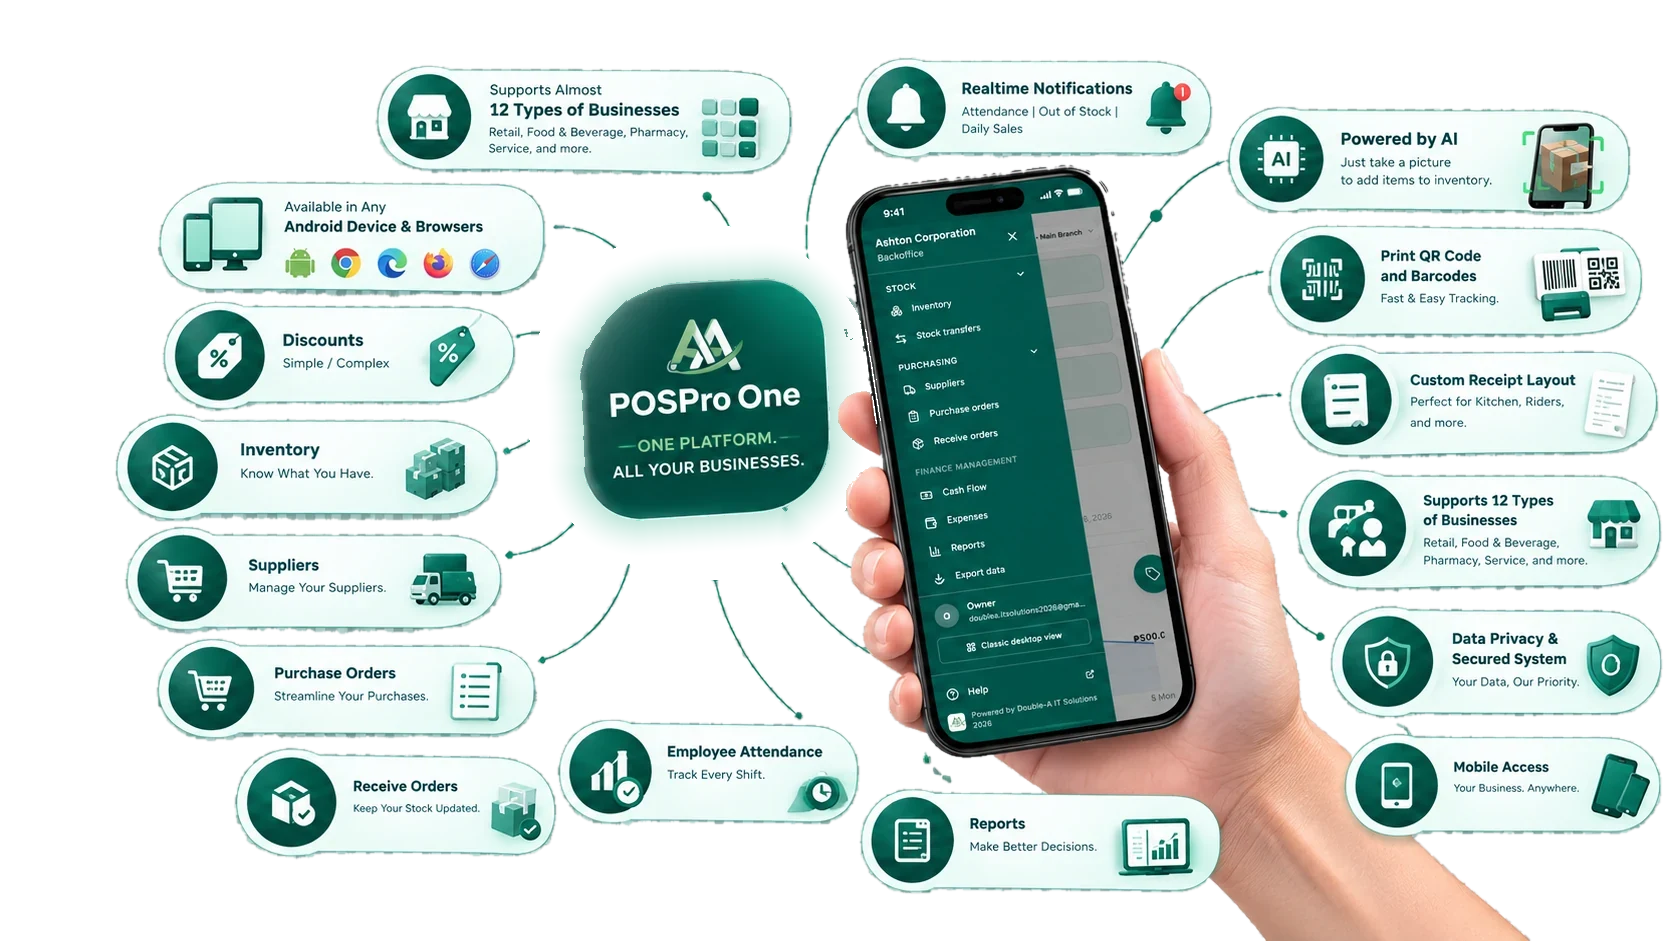
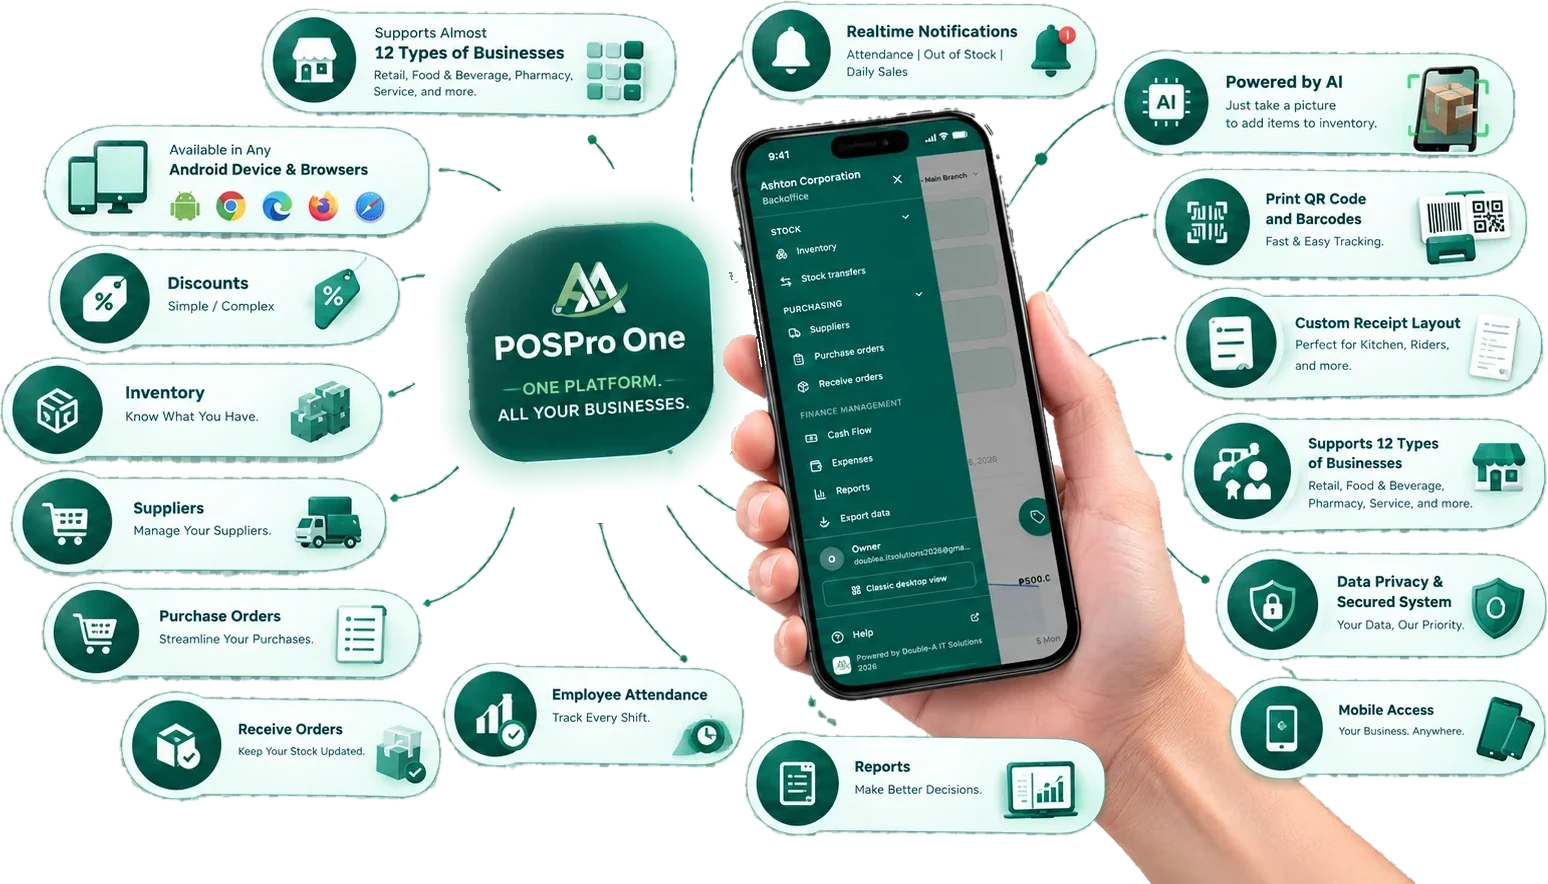
add features

diff --git a/apps/web/app/products/[slug]/page.tsx b/apps/web/app/products/[slug]/page.tsx
@@ -92,7 +92,13 @@ export default function ProjectPage({ params }: { params: { slug: string } }) {
                 Back to work
               </Link>
 
-              <div className="mt-8 grid gap-12 lg:grid-cols-[1fr_1.05fr] lg:items-center">
+              <div
+                className={
+                  project.heroImage
+                    ? "mt-8 grid gap-8 lg:grid-cols-[minmax(0,0.8fr)_minmax(0,1.2fr)] lg:items-center lg:gap-10"
+                    : "mt-8 grid gap-12 lg:grid-cols-[1fr_1.05fr] lg:items-center"
+                }
+              >
                 <div>
                   {project.logo && (
                     <div className="mb-4 flex h-14 w-14 items-center justify-center rounded-xl border border-border-sage bg-card p-2 shadow-sm">
@@ -141,7 +147,7 @@ export default function ProjectPage({ params }: { params: { slug: string } }) {
                     alt={project.heroImage.alt}
                     width={project.heroImage.width}
                     height={project.heroImage.height}
-                    sizes="(min-width: 1024px) 50vw, 100vw"
+                    sizes="(min-width: 1024px) 60vw, 100vw"
                     priority
                     className="h-auto w-full"
                   />

diff --git a/apps/web/lib/projects.ts b/apps/web/lib/projects.ts
@@ -88,8 +88,8 @@ export const PROJECTS: readonly Project[] = [
     heroImage: {
       src: "/projects/products/propos/pospro-hero.webp",
       alt: "POSPro One on a phone, surrounded by its main features: inventory, suppliers, purchase orders, receiving, attendance, reports, discounts, AI, and more",
-      width: 1671,
-      height: 941,
+      width: 1548,
+      height: 884,
     },
     category: "personal",
     tagline:
